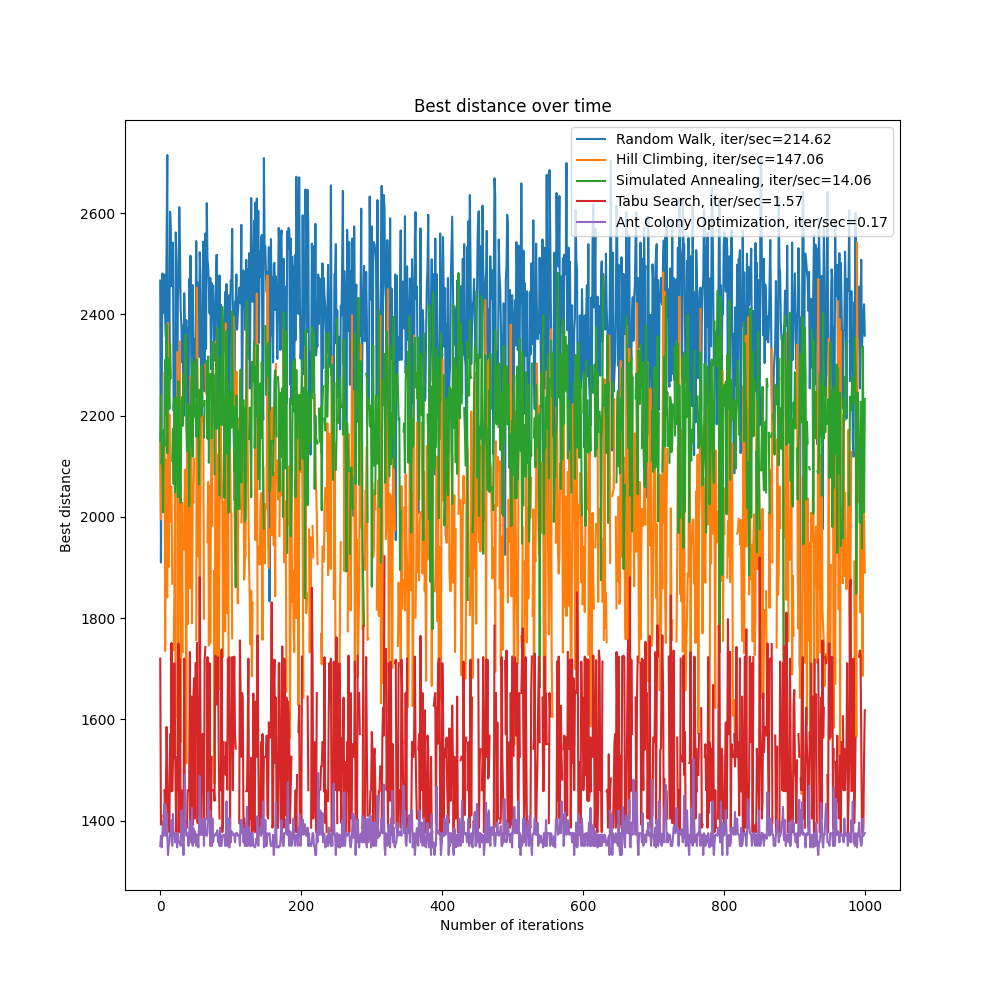
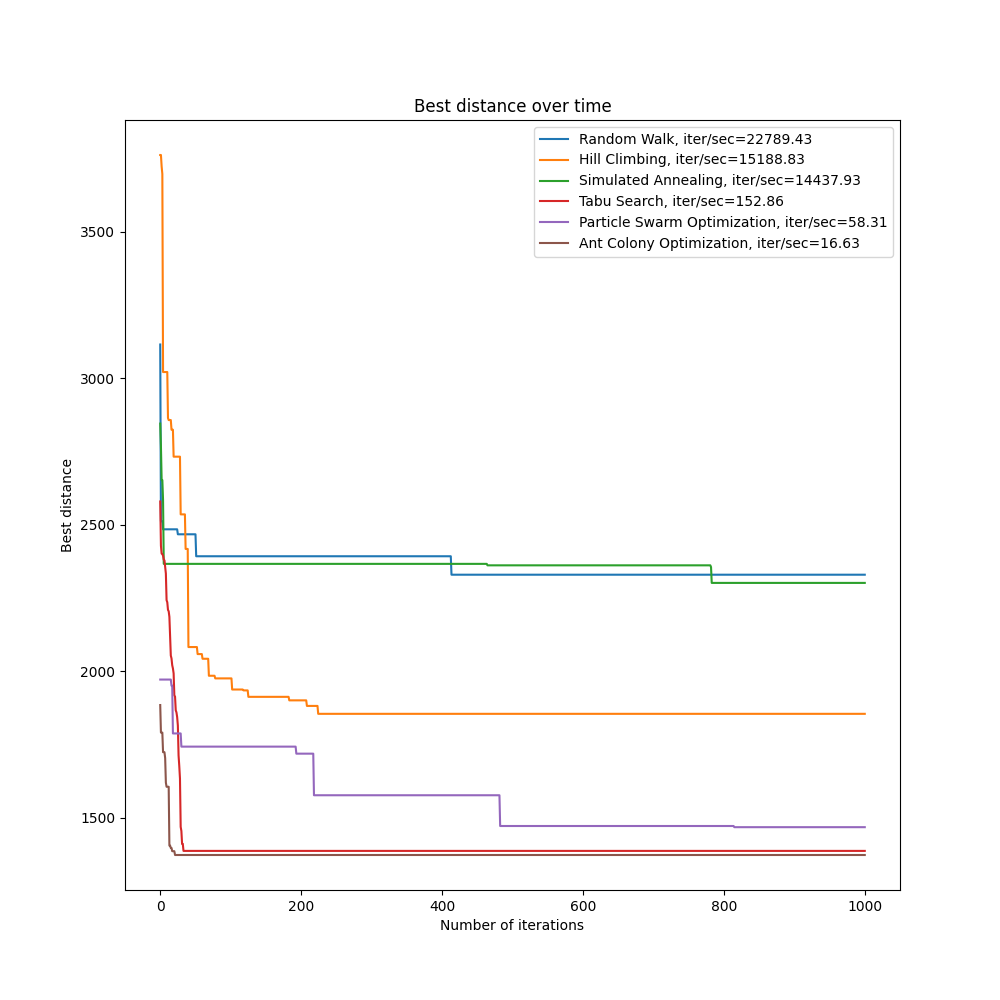
udpate hw3

diff --git a/hw3/p4.py b/hw3/p4.py
@@ -1,0 +1,75 @@
+import pandas as pd
+import numpy as np
+import random
+
+# Load the distance table
+distances = pd.read_csv('distances_table.csv', index_col=0)
+
+def calculate_total_distance(path):
+    """ Calculate the total distance of a path """
+    return sum(distances.loc[path[i], path[i+1]] for i in range(len(path) - 1))
+
+# def generate_initial_velocity(size):
+#     """ Generate an initial velocity for a particle """
+
+def update_velocity(current_velocity, pBest, gBest, current_position, w=0.5, c1=1, c2=2, r1=0.5, r2=0.5, v_max=4, v_min=-4):
+    """ Update the velocity of a particle """
+    dist_pBest = calculate_total_distance(pBest)
+    dist_gBest = calculate_total_distance(gBest)
+    dist_current_position = calculate_total_distance(current_position)
+    new_velocity = w * current_velocity + c1 * r1 * (dist_pBest - dist_current_position) + c2 * r2 * (dist_gBest - dist_current_position)
+    if new_velocity > v_max:
+        new_velocity = v_max
+    elif new_velocity < v_min:
+        new_velocity = v_min
+    return new_velocity
+
+
+def apply_velocity_to_path(path, velocity):
+    """ Apply the velocity (sequence of swaps) to the path """
+    path = path.copy()
+    if velocity == 0:
+        return path
+    else:
+        # For a high velocity, we want to swap more cities in the current path
+        for _ in range(abs(int(velocity))):
+            i = random.randint(1, len(path) - 2)
+            j = random.randint(1, len(path) - 2)
+            path[i], path[j] = path[j], path[i]
+
+    return path
+
+
+def pso_tsp(distances, num_particles=50, num_iterations=100):
+    cities = distances.columns.tolist()
+    # Initialize particles and velocities
+    particles = [['Incheon'] + random.sample(cities[1:-1], len(cities) - 2) + ['Incheon'] for _ in range(num_particles)]
+    velocities = [0 for _ in range(num_particles)]
+    personal_best = particles.copy()
+    global_best = min(particles, key=calculate_total_distance)
+    iter_log = []
+    for _ in range(num_iterations):
+        for i in range(num_particles):
+            # Update velocity
+            
+            velocities[i] = update_velocity(velocities[i], personal_best[i], global_best, particles[i])
+            # Apply velocity to particle
+            particles[i] = apply_velocity_to_path(particles[i], velocities[i])
+
+            # Update personal and global bests
+            current_distance = calculate_total_distance(particles[i])
+            if current_distance < calculate_total_distance(personal_best[i]):
+                personal_best[i] = particles[i]
+            if current_distance < calculate_total_distance(global_best):
+                global_best = particles[i]
+                
+        iter_log.append(calculate_total_distance(global_best))
+
+    best_path = global_best
+    best_distance = calculate_total_distance(best_path)
+    return best_path, best_distance, iter_log
+
+# Run PSO for TSP
+best_path, best_distance, _ = pso_tsp(distances)
+print(f"Best path: {best_path}")
+print(f"Total distance: {best_distance}")

diff --git a/hw3/p3h.py b/hw3/p3h.py
@@ -3,6 +3,7 @@ from p3d import *
 from p3e import *
 from p3f import *
 from p3g import *
+from p4 import *
 
 import matplotlib.pyplot as plt
 import time
@@ -13,29 +14,33 @@ distances_table = pd.read_csv('distances_table.csv', index_col=0)
 
 iter = 1000
 start = time.time()
-RW = [random_walk(distances_table)[1] for _ in tqdm(range(iter))]
+RW = random_walk(distances_table, num_iterations=iter)
 RW_time = time.time()
-HC = [hill_climbing(distances_table)[1] for _ in tqdm(range(iter))]
+HC = hill_climbing(distances_table, iterations=iter)
 HC_time = time.time()
-SA = [simulated_annealing(distances_table)[1] for _ in tqdm(range(iter))]
+SA = simulated_annealing(distances_table, iterations=iter)
 SA_time = time.time()
-TAS = [tabu_search(distances_table)[1] for _ in tqdm(range(iter))]
+TAS = tabu_search(distances_table, iterations=iter)
 TAS_time = time.time()
-ACO = [ACO(distances_table)[1] for _ in tqdm(range(iter))]
+PSO = pso_tsp(distances_table, num_iterations=iter)
+PSO_time = time.time()
+ACO = ACO(distances_table, num_iterations=iter)
 ACO_time = time.time()
 
-print(f'Results for Random Walk: {RW}')
-print(f'Results for Hill Climbing: {HC}')
-print(f'Results for Simulated Annealing: {SA}')
-print(f'Results for Ant Colony Optimization: {ACO}')
-print(f'Results for Tabu Search: {TAS}')
+print(f'Results for Random Walk: {RW[1]}')
+print(f'Results for Hill Climbing: {HC[1]}')
+print(f'Results for Simulated Annealing: {SA[1]}')
+print(f'Results for Ant Colony Optimization: {ACO[1]}')
+print(f'Results for Tabu Search: {TAS[1]}')
+print(f'Results for Particle Swarm Optimization: {PSO[1]}')
 
 # Deal with NaN values
-RW = np.nan_to_num(RW, nan=np.inf)
-HC = np.nan_to_num(HC, nan=np.inf)
-SA = np.nan_to_num(SA, nan=np.inf)
-ACO = np.nan_to_num(ACO, nan=np.inf)
-TAS = np.nan_to_num(TAS, nan=np.inf)
+RW = np.nan_to_num(RW[-1], nan=np.inf)
+HC = np.nan_to_num(HC[-1], nan=np.inf)
+SA = np.nan_to_num(SA[-1], nan=np.inf)
+ACO = np.nan_to_num(ACO[-1], nan=np.inf)
+TAS = np.nan_to_num(TAS[-1], nan=np.inf)
+PSO = np.nan_to_num(PSO[-1], nan=np.inf)
 
 plt.figure(figsize=(10, 10))
 plt.title('Best distance over time')
@@ -45,6 +50,7 @@ plt.plot(RW, label=f'Random Walk, iter/sec={iter/(RW_time-start):.2f}')
 plt.plot(HC, label=f'Hill Climbing, iter/sec={iter/(HC_time-RW_time):.2f}')
 plt.plot(SA, label=f'Simulated Annealing, iter/sec={iter/(SA_time-HC_time):.2f}')
 plt.plot(TAS, label=f'Tabu Search, iter/sec={iter/(TAS_time-SA_time):.2f}')
-plt.plot(ACO, label=f'Ant Colony Optimization, iter/sec={iter/(ACO_time-TAS_time):.2f}')
+plt.plot(PSO, label=f'Particle Swarm Optimization, iter/sec={iter/(PSO_time-TAS_time):.2f}')
+plt.plot(ACO, label=f'Ant Colony Optimization, iter/sec={iter/(ACO_time-PSO_time):.2f}')
 plt.legend()
 plt.savefig('p3h.png')

diff --git a/hw3/p3f.py b/hw3/p3f.py
@@ -13,6 +13,7 @@ def simulated_annealing(distances, initial_temp=1000, cooling_rate=0.99, iterati
     current_path.append('Incheon')  # Return to the starting city
     current_distance = calculate_total_distance(distances, current_path)
     best_path, best_distance = current_path, current_distance
+    iter_log = []
 
     temperature = initial_temp
 
@@ -26,9 +27,10 @@ def simulated_annealing(distances, initial_temp=1000, cooling_rate=0.99, iterati
             if new_distance < best_distance:
                 best_path, best_distance = new_path, new_distance
 
+        iter_log.append(best_distance)
         temperature *= cooling_rate
 
-    return best_path, best_distance
+    return best_path, best_distance, iter_log
 
 # Calculate acceptance probability
 def acceptance_probability(old_distance, new_distance, temperature):
@@ -48,6 +50,6 @@ def calculate_total_distance(distances, path):
     return sum(distances.loc[path[i], path[i+1]] for i in range(len(path)-1))
 
 # Run the Simulated Annealing algorithm
-best_path, best_distance = simulated_annealing(distances_df)
+best_path, best_distance, _ = simulated_annealing(distances_df)
 print(f'Best path found: {best_path}')
 print(f'Total distance: {best_distance}')

diff --git a/hw3/p3e.py b/hw3/p3e.py
@@ -13,6 +13,7 @@ def tabu_search(distances, iterations=100, tabu_list_length=10):
     best_path = current_path
     best_distance = calculate_total_distance(distances, current_path)
     tabu_list = []
+    iter_log = []
 
     for _ in range(iterations):
         neighbors = generate_neighbors(current_path)
@@ -27,8 +28,10 @@ def tabu_search(distances, iterations=100, tabu_list_length=10):
         if current_distance < best_distance:
             best_distance = current_distance
             best_path = current_path
+        
+        iter_log.append(best_distance)
 
-    return best_path, best_distance
+    return best_path, best_distance, iter_log
 
 # Function to generate neighbors by swapping two cities
 def generate_neighbors(path):
@@ -59,6 +62,6 @@ def calculate_total_distance(distances, path):
     return sum(distances.loc[path[i], path[i+1]] for i in range(len(path)-1))
 
 # Run the Tabu Search algorithm
-best_path, best_distance = tabu_search(distances_df)
+best_path, best_distance, _ = tabu_search(distances_df)
 print(f'Best path found: {best_path}')
 print(f'Total distance: {best_distance}')

diff --git a/hw3/p3d.py b/hw3/p3d.py
@@ -12,6 +12,7 @@ def hill_climbing(distances, iterations=100):
     current_path.append('Incheon')  # Return to the starting city
     best_distance = calculate_total_distance(distances, current_path)
     best_path = current_path
+    iter_log = []
 
     for _ in range(iterations):
         # Generate a neighbor path by swapping two cities
@@ -26,13 +27,14 @@ def hill_climbing(distances, iterations=100):
             best_distance = new_distance
             best_path = new_path
 
-    return best_path, best_distance
+        iter_log.append(best_distance)
+    return best_path, best_distance, iter_log
 
 # Function to calculate the total distance of a path
 def calculate_total_distance(distances, path):
     return sum(distances.loc[path[i], path[i+1]] for i in range(len(path)-1))
 
 # Run the hill climbing algorithm
-best_path, best_distance = hill_climbing(distances_df)
+best_path, best_distance, _ = hill_climbing(distances_df)
 print(f'Best path found: {best_path}')
 print(f'Total distance: {best_distance}')

diff --git a/hw3/p3g.py b/hw3/p3g.py
@@ -28,7 +28,7 @@ def ACO(distances, num_ants=10, num_iterations=100, decay=0.5, alpha=1, beta=2):
     # Ant Colony Optimization
     best_path = None
     best_distance = float('inf')
-
+    iter_log = []
     for iteration in range(num_iterations):
         ants_paths = []
         for ant in range(num_ants):
@@ -47,11 +47,13 @@ def ACO(distances, num_ants=10, num_iterations=100, decay=0.5, alpha=1, beta=2):
             if path_distance < best_distance:
                 best_path = path
                 best_distance = path_distance
+            
+        iter_log.append(best_distance)
 
         pheromones *= decay  # Pheromone evaporation
         pheromones = update_pheromones(pheromones, ants_paths, distances)
     
-    return best_path, best_distance
-best_path, best_distance = ACO(distances)
+    return best_path, best_distance, iter_log
+best_path, best_distance, _ = ACO(distances)
 print(f'Best path found: {best_path}')
 print(f'Total distance: {best_distance}')

diff --git a/hw3/p3c.py b/hw3/p3c.py
@@ -10,6 +10,7 @@ def random_walk(distances, num_iterations=100):
     cities = distances.columns.tolist()
     best_path = None
     best_distance = float('inf')
+    iter_log = []
 
     for _ in range(num_iterations):
         path = ['Incheon'] + random.sample(cities, len(cities))
@@ -19,10 +20,12 @@ def random_walk(distances, num_iterations=100):
         if total_distance < best_distance:
             best_distance = total_distance
             best_path = path
+        
+        iter_log.append(best_distance)
 
-    return best_path, best_distance
+    return best_path, best_distance, iter_log
 
 # Run the random walk algorithm
-best_path, best_distance = random_walk(distances_table)
+best_path, best_distance, _ = random_walk(distances_table)
 print(f'Best path: {best_path}')
 print(f'Total distance: {best_distance}')
